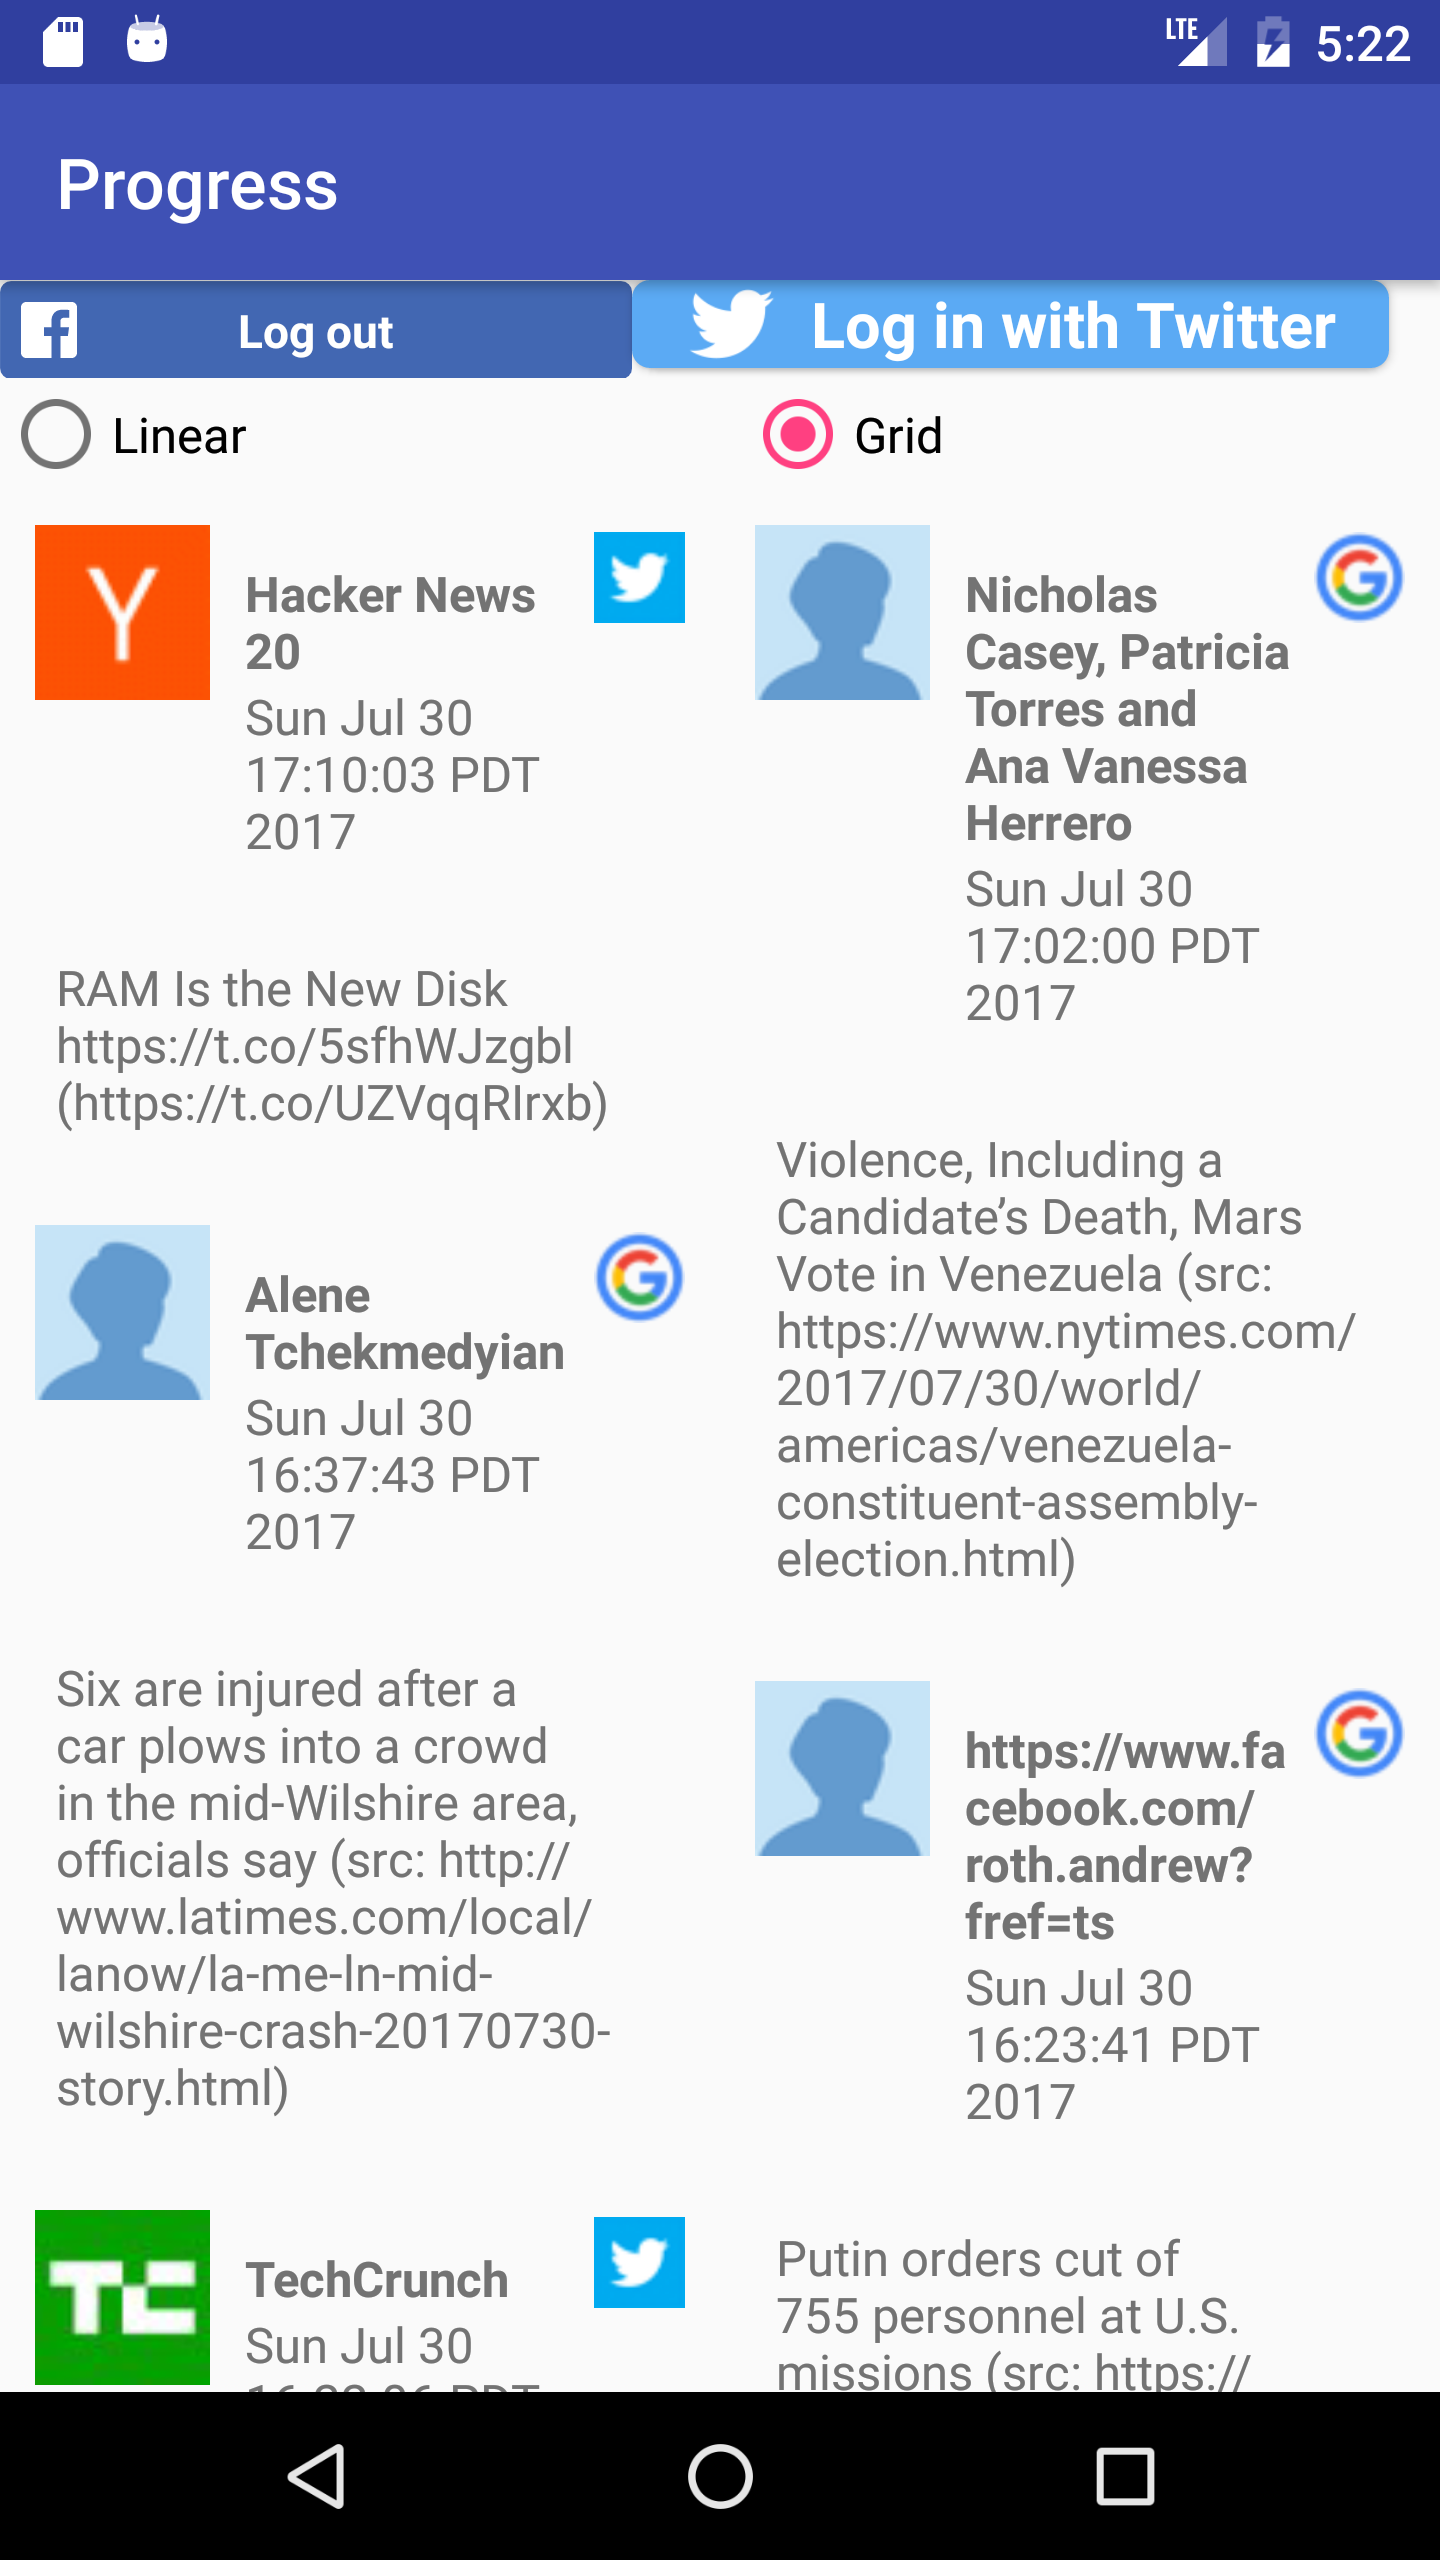
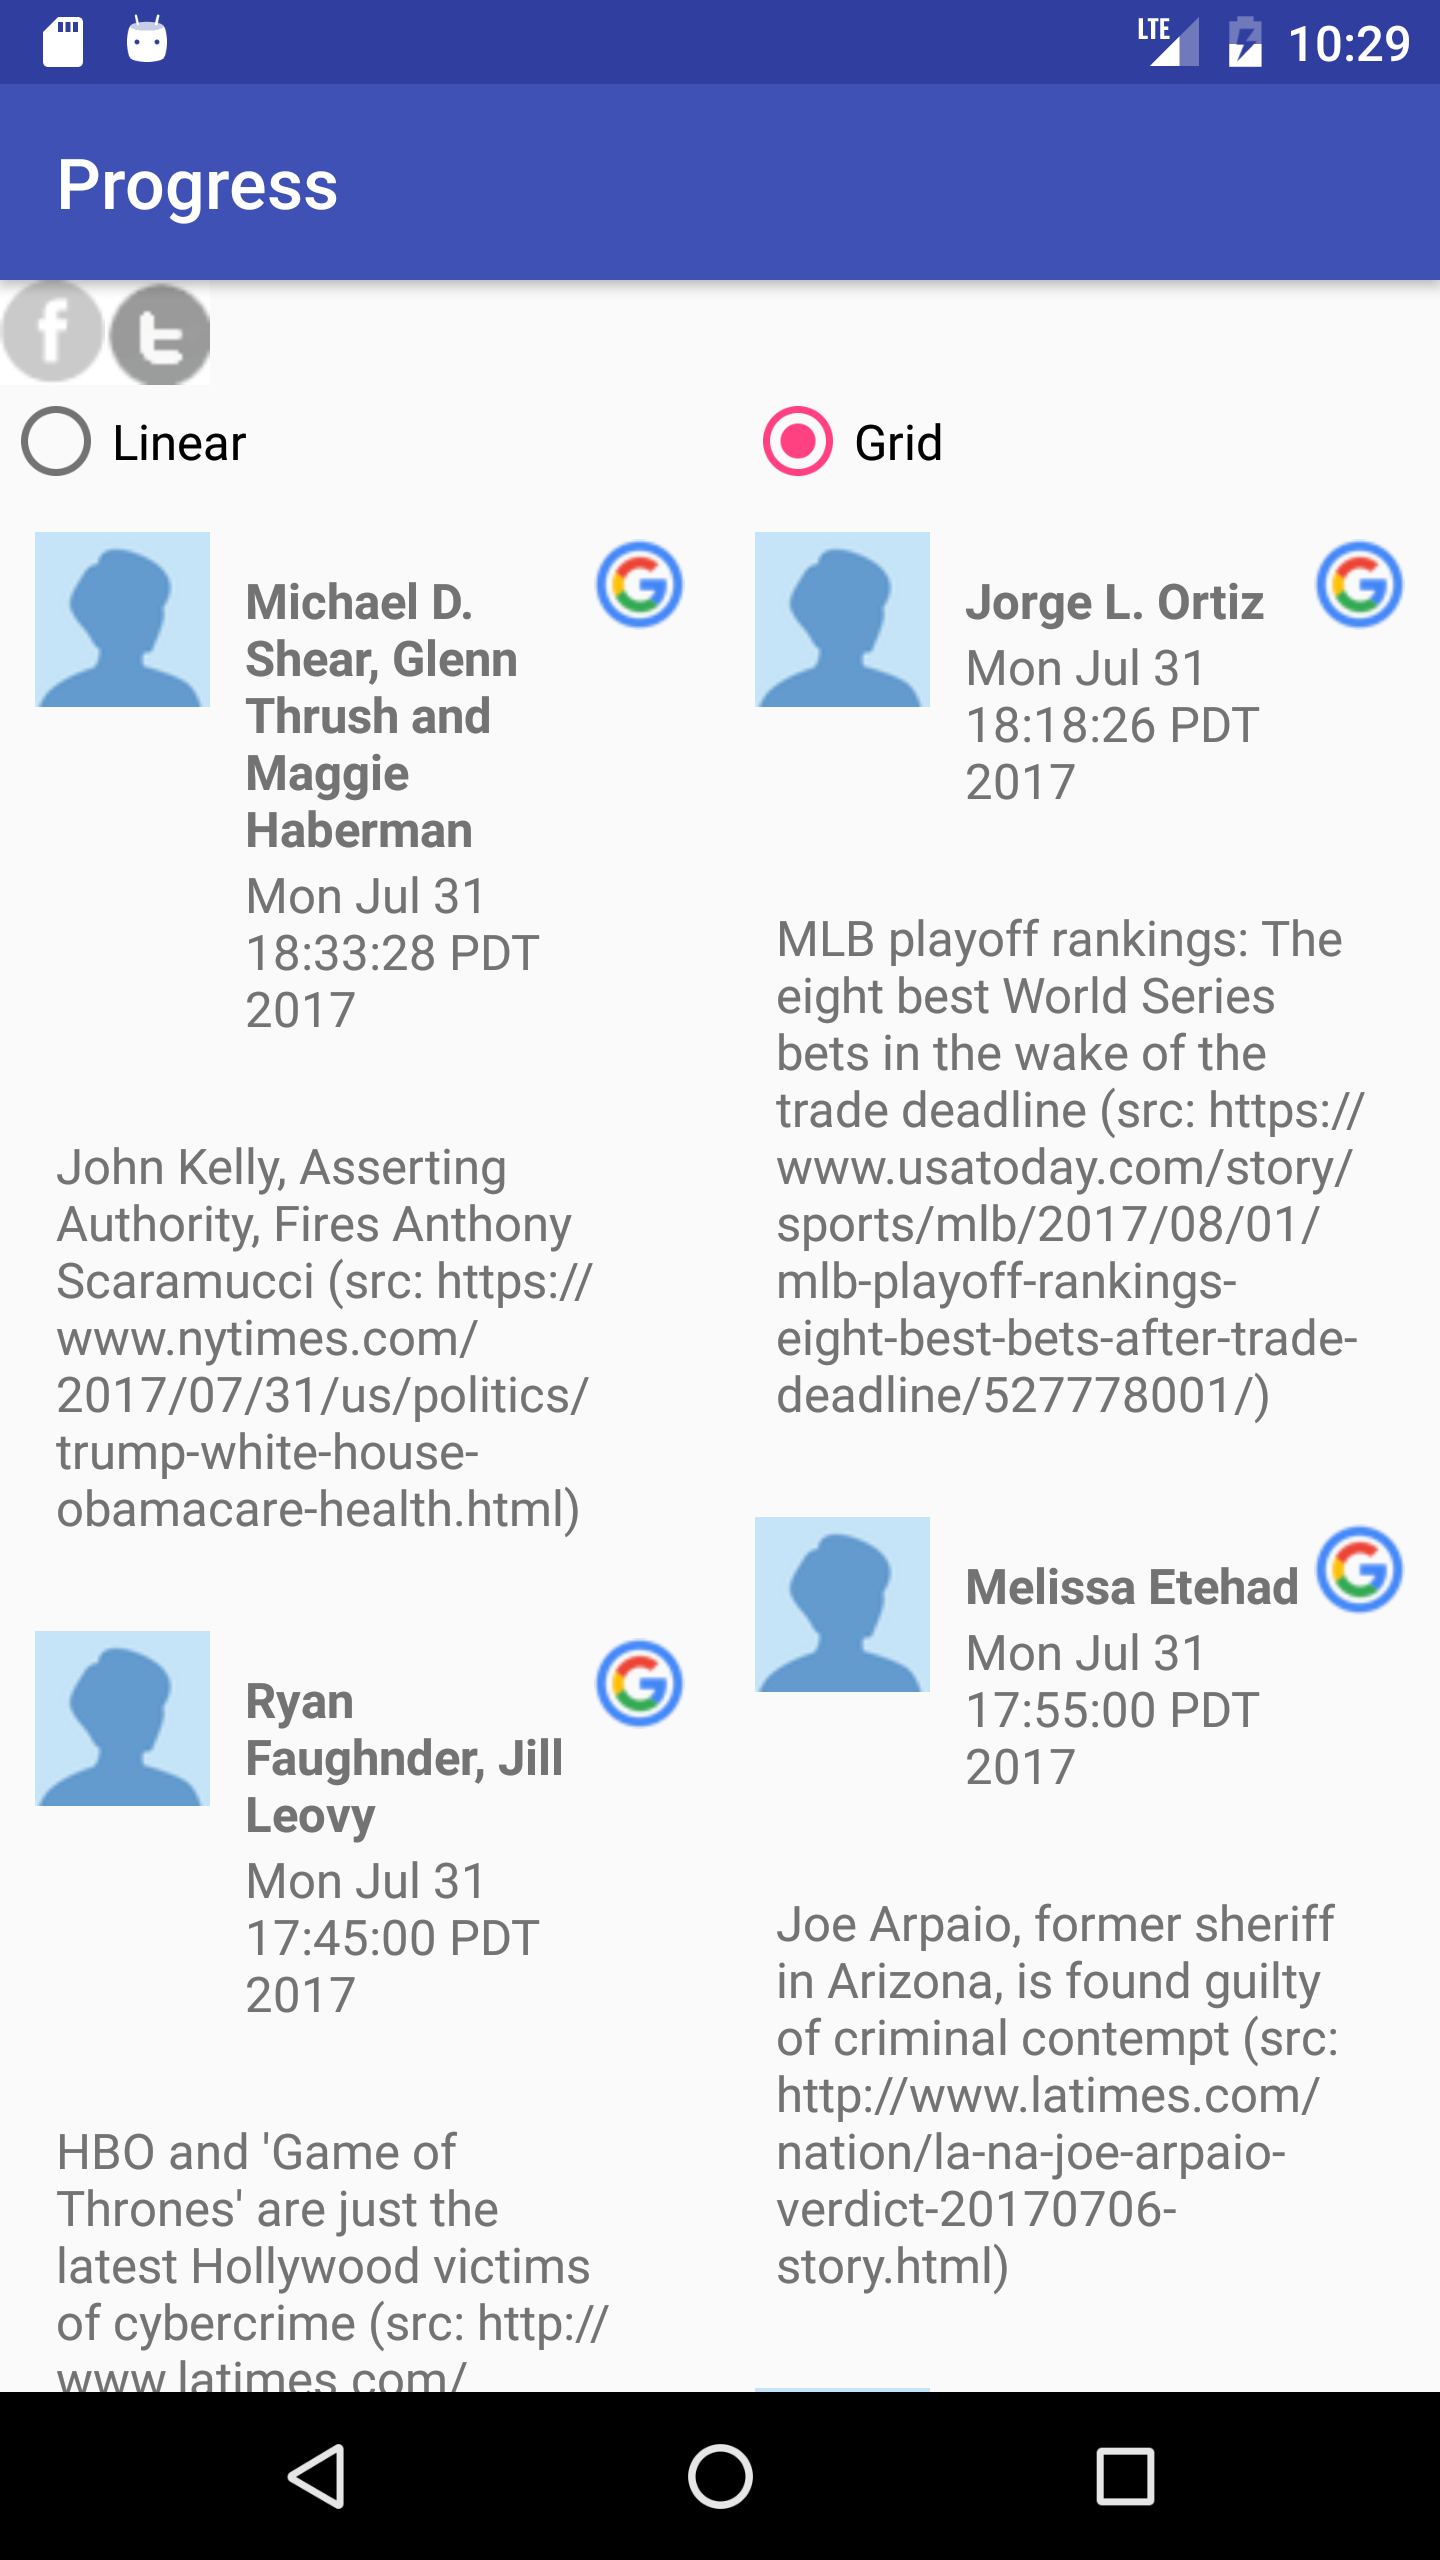
Modify README for version 0.3

diff --git a/app/src/main/java/com/lol/fwen/progress/UI/DetailFragment.java b/app/src/main/java/com/lol/fwen/progress/UI/DetailFragment.java
@@ -10,7 +10,7 @@ import android.widget.ImageView;
 import android.widget.TextView;
 
 import com.lol.fwen.progress.R;
-import com.lol.fwen.progress.asynctask.DownloadImageTask;
+import com.lol.fwen.progress.asynctask.DownloadImageAsyncTask;
 import com.lol.fwen.progress.data.Feed;
 
 public class DetailFragment extends Fragment {
@@ -52,12 +52,12 @@ public class DetailFragment extends Fragment {
         itemSrcIcon.setImageResource(Feed.getSrcImage(feed));
         if (feed.hasImage()) {
             ImageView imageView = (ImageView) view.findViewById(R.id.detailFragment_image);
-            new DownloadImageTask(imageView, ((FeedActivity)getActivity()).imageCache).execute(feed.getImageURL());
+            new DownloadImageAsyncTask(imageView, ((FeedActivity)getActivity()).imageCache).execute(feed.getImageURL());
         }
 
         if (feed.hasAuthorIcon()) {
             ImageView imageView = (ImageView) view.findViewById(R.id.authorPic);
-            new DownloadImageTask(imageView, ((FeedActivity)getActivity()).imageCache).execute(feed.getAuthorIcon());
+            new DownloadImageAsyncTask(imageView, ((FeedActivity)getActivity()).imageCache).execute(feed.getAuthorIcon());
         }
 
         return view;

diff --git a/app/src/main/java/com/lol/fwen/progress/UI/RecyclerViewAdapter.java b/app/src/main/java/com/lol/fwen/progress/UI/RecyclerViewAdapter.java
@@ -9,7 +9,7 @@ import android.widget.ImageView;
 import android.widget.TextView;
 
 import com.lol.fwen.progress.R;
-import com.lol.fwen.progress.asynctask.DownloadImageTask;
+import com.lol.fwen.progress.asynctask.DownloadImageAsyncTask;
 import com.lol.fwen.progress.data.Feed;
 import com.lol.fwen.progress.data.ImageCache;
 
@@ -106,7 +106,7 @@ public class RecyclerViewAdapter extends RecyclerView.Adapter {
             srcIconImageView.setImageResource(Feed.getSrcImage(feed));
 
             if (feed.hasAuthorIcon()) {
-                new DownloadImageTask(authorIconImageView, imageCache).execute(feed.getAuthorIcon());
+                new DownloadImageAsyncTask(authorIconImageView, imageCache).execute(feed.getAuthorIcon());
             } else {
                 authorIconImageView.setImageResource(R.drawable.empty);
             }

diff --git a/app/src/main/java/com/lol/fwen/progress/asynctask/DownloadImageAsyncTask.java b/app/src/main/java/com/lol/fwen/progress/asynctask/DownloadImageAsyncTask.java
@@ -10,11 +10,11 @@ import com.lol.fwen.progress.data.ImageCache;
 
 import java.io.InputStream;
 
-public class DownloadImageTask extends AsyncTask<String, Void, Bitmap> {
+public class DownloadImageAsyncTask extends AsyncTask<String, Void, Bitmap> {
     ImageView bmImage;
     ImageCache imageCache;
 
-    public DownloadImageTask(ImageView bmImage, ImageCache imageCache) {
+    public DownloadImageAsyncTask(ImageView bmImage, ImageCache imageCache) {
         this.bmImage = bmImage;
         this.imageCache = imageCache;
     }

diff --git a/README.md b/README.md
@@ -1,40 +1,54 @@
-# PROGRESS
+## PROGRESS
 The purpose of this android application is to consolidate news, feeds, and statuses from various social network services into one application. Currently, the following will be retrieved:
 
   - Facebook news feeds(user_posts, login required)
   - Twitter statuses(home timeline, login required)
   - Google news(Retrieved by News API(https://newsapi.org/), no login required)
 
-(Note that I was intented to get facebook /{user_id}/home instead of /{user_id}/posts, however, the api(/{user_id}/home) has been unavailable since October 6th, 2015, because of user privacy. And /{user_id}/posts can only get posts from the user and post people make in his/her timeline).
+## Version: 0.3
+What changed:
 
-# Version: 0.2
-## Changes:
- - Replace ListView with RecyclerView and users could choose grid layout or list layout to show all the feeds.
- - As ListView is never used, ListFragment has been replaced with Fragment.
-
-# Architecture and Technical Design
+ - Replace Facebook LoginButton with custom ImageButton for better UI.s
+ - Replace Twitter LoginButton with custom ImageButton for better UI.
+ - User interaction changes: user could choose to logout to not retrieve facebook feeds or twitter statuses.
+ 
+## Architecture and Technical Design
 The application consists of two activities:
 
-- LoginActivity: This is the main Activity, but just acts like a "place holder", simply enter any email address could proceed to next Activity. The email box will also retrieve user profile to autocomplete user emails.
-- <img src="Pics/LogInActivity.png" width="288">
+* LoginActivity: This is the main Activity, but just acts like a "place holder", simply enter any email address could proceed to next Activity. The email box will also retrieve user profile to autocomplete user emails.
+    
+    <img src="Pics/LogInActivity.png" width="288">
 
-- FeedActivty: Two Fragment will be attached to this Activity, RecyclerViewFragment, which shows Feeds that are sorted in reverse chronological order(i.e latest first) within LinearLayout or StaggeredGridLayout, and DetailFragment, which shows detail of the feed when a user clicks the list item showed in FeedListFragment.
-- <img src="Pics/RecyclerViewFragment_01.png" width="288"> <img src="Pics/RecyclerViewFragment_02.png" width="288"> <img src="Pics/DetailFragment.png" width="288">
+* FeedActivty: Two Fragment will be attached to this Activity:
+    * RecyclerViewFragment, which shows Feeds that are sorted in reverse chronological order(i.e latest first) within LinearLayout or StaggeredGridLayout
 
-Two AsyncTask subclasses are created to download image and send API requests
+        <img src="Pics/RecyclerViewFragment_01.png" width="288"> <img src="Pics/RecyclerViewFragment_02.png" width="288"> <img src="Pics/RecyclerViewFragment_03.png" width="288">
 
-- DownloadImageTask: which downloads images given url and set ImageView, an ImageCache is created to cache the images.
-- SendRequestAsyncTask: which, in parallel, sends requests to and gets responses from Fackbook Graph API, Twitter API and News Feed API(for Google News). An AtomInteger is used to do the synchronization. The feeds from different source will be merged into one and showed in DetailFragment.
+    * DetailFragment, which shows detail of the feed when a user clicks the  item showed in RecyclerViewFragment.
 
-# Environment and Requirement
+        <img src="Pics/DetailFragment.png" width="288">
+
+Two AsyncTask subclasses are created to download image and deal with API requests and responses.
+
+* DownloadImageAsyncTask: which downloads images given url and set ImageView, an ImageCache is created to cache the images.
+* DownloadDataAsyncTask: which, in parallel, sends requests to and gets responses from Fackbook Graph API, Twitter API and News Feed API(for Google News). An AtomInteger is used to do the synchronization. The feeds from different sources will be merged into one and showed in RecyclerViewFragment.
+
+## Environment and Requirement
 - SDK: 25
 - IDE: Android Studio
 - OS: Linux 4.4.0-79-generic
 - Device: Emulator(Nexus 6)
 
-### Todos
- - Configuration Changes Support: A couple of issues will occur when users rotate the device, one of which is that the activity will be destroyed and recreated while AsyncTask still has reference to the old activity. I would like to resolve this by using retained Fragment. 
- - Better User Interface: Mostly forcus on Application Logic at the moment and will make better UI in the future(For Verision 0.2, RecyclerView has been used to replace ListView).
- - Add Feeds or Post from more Social Network Service(e.g. LinkedIn).
- - Add support to store previous Feeds on devices.
- - Add Services and Notifications.
+## Todos
+ * Configuration Changes Support: A couple of issues will occur when users rotate the device, one of which is that the activity will be destroyed and recreated while AsyncTask still has reference to the old activity. I would like to resolve this by using retained Fragment.
+ * Better User Interface: Mostly forcus on Application Logic at the moment and will make better UI in the future.
+    * Version 0.2: RecyclerView has been used to replace ListView
+    * Version 0.3: Custom loginbuttons have been added).
+ * Add Feeds or Post from more Social Network Service(e.g. LinkedIn).
+ * Add support to store previous Feeds on devices.
+ * Add Services and Notifications.
+
+
+##Notes:
+
+* I was intented to get facebook /{user_id}/home instead of /{user_id}/posts, however, the api(/{user_id}/home) has been unavailable since October 6th, 2015, because of user privacy. And /{user_id}/posts can only get posts from the user and post people make in his/her timeline).
